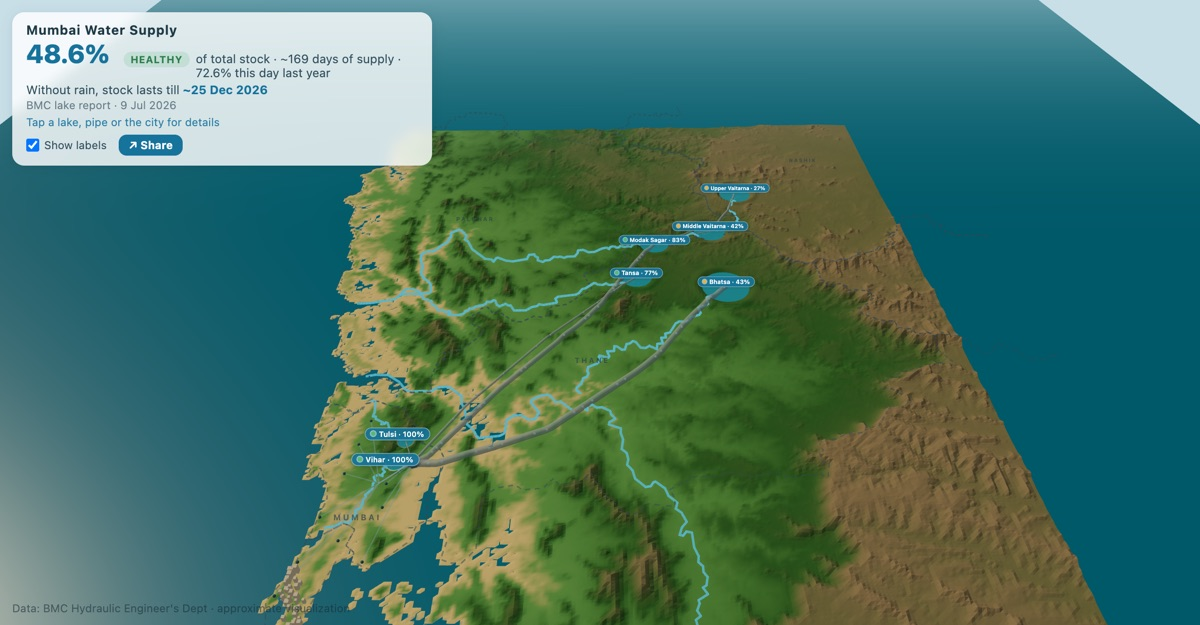
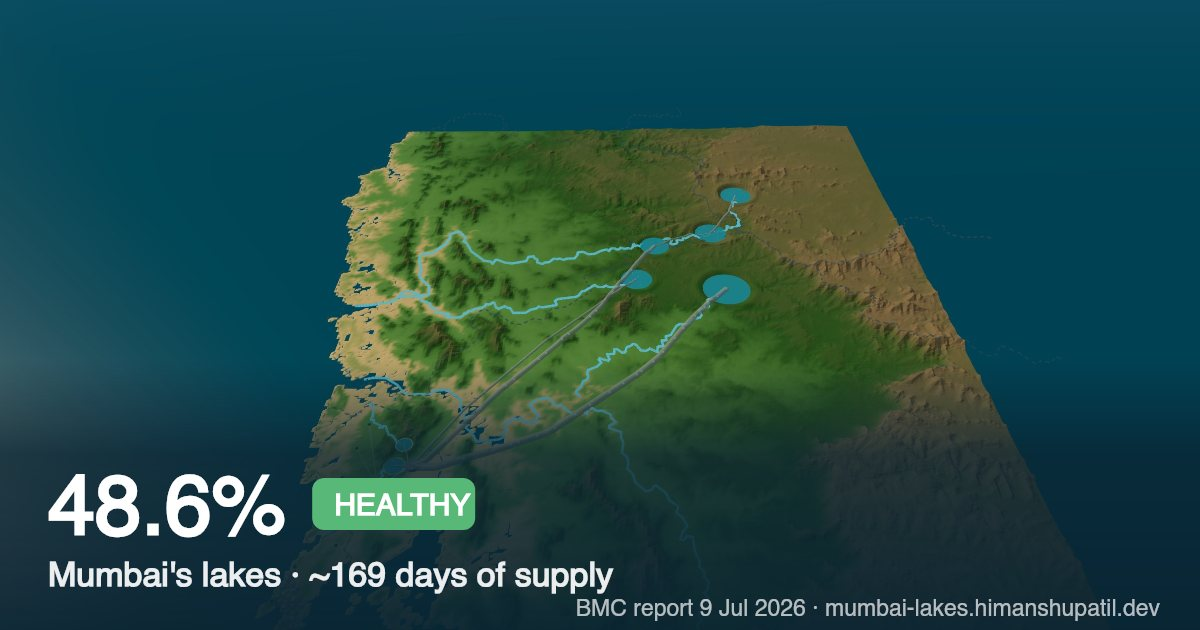
feat: intro flythrough (08) + self-updating daily OG card (10)
Flythrough: 7s camera spline down the Vaitarna cascade to Bhandup, lands on
the default view; skippable, once/session, ?intro=1|0. Lake chips visible,
other UI fades. OG: render-og.mjs redraws og.jpg with latest % after every
ingest.

diff --git a/src/scene/CameraRig.tsx b/src/scene/CameraRig.tsx
@@ -1,6 +1,8 @@
-import { useRef, type ComponentRef } from 'react'
+import { useEffect, useMemo, useRef, useState, type ComponentRef } from 'react'
 import { MapControls } from '@react-three/drei'
 import { useFrame } from '@react-three/fiber'
+import * as THREE from 'three'
+import { flags } from './capture'
 
 // ref type derived from drei so we don't import three-stdlib directly
 // (a transitive dep that pnpm's strict node_modules doesn't expose)
@@ -11,10 +13,99 @@ type MapControlsImpl = ComponentRef<typeof MapControls>
 const PAN_LIMIT_X = 140
 const PAN_LIMIT_Z = 200
 
+const PORTRAIT = typeof window !== 'undefined' && window.innerHeight > window.innerWidth
+const DEFAULT_POS = PORTRAIT ? [0, 260, 300] : [0, 190, 220]
+
+// Intro flythrough: over Upper Vaitarna, down the Vaitarna cascade, along the
+// mains corridor to Bhandup, pull out to the default map view.
+const INTRO_S = 7
+const easeInOut = (p: number) => (p < 0.5 ? 4 * p * p * p : 1 - Math.pow(-2 * p + 2, 3) / 2)
+
+function introSkipped(): boolean {
+  const q = new URLSearchParams(location.search)
+  if (q.get('intro') === '1') return false
+  if (q.get('intro') === '0') return true
+  if (q.has('date')) return true // deep link straight to a day, no cinema
+  if (sessionStorage.getItem('introPlayed')) return true
+  if (window.matchMedia('(prefers-reduced-motion: reduce)').matches) return true
+  return false
+}
+
 export function CameraRig() {
   const controls = useRef<MapControlsImpl>(null)
+  const [introDone, setIntroDone] = useState(introSkipped)
+  const progress = useRef(0)
 
-  useFrame(() => {
+  const { camPath, lookPath } = useMemo(() => {
+    const v = (x: number, y: number, z: number) => new THREE.Vector3(x, y, z)
+    const camPath = new THREE.CatmullRomCurve3(
+      [
+        v(96, 64, -152),
+        v(72, 26, -112),
+        v(52, 19, -78),
+        v(30, 20, -48),
+        v(-2, 24, 16),
+        v(-32, 28, 80),
+        v(DEFAULT_POS[0], DEFAULT_POS[1], DEFAULT_POS[2]),
+      ],
+      false,
+      'catmullrom',
+      0.35,
+    )
+    const lookPath = new THREE.CatmullRomCurve3(
+      [
+        v(71, 2, -101), // Upper Vaitarna
+        v(58, 2, -70), // Middle Vaitarna
+        v(37, 2, -56), // Modak Sagar
+        v(10, 3, -18),
+        v(-34, 1, 97), // Bhandup
+        v(-46, 1, 116), // city
+        v(0, 0, 0),
+      ],
+      false,
+      'catmullrom',
+      0.35,
+    )
+    return { camPath, lookPath }
+  }, [])
+
+  // any interaction skips the intro
+  useEffect(() => {
+    if (introDone) return
+    const skip = () => setIntroDone(true)
+    window.addEventListener('pointerdown', skip, { once: true })
+    window.addEventListener('wheel', skip, { once: true })
+    window.addEventListener('keydown', skip, { once: true })
+    return () => {
+      window.removeEventListener('pointerdown', skip)
+      window.removeEventListener('wheel', skip)
+      window.removeEventListener('keydown', skip)
+    }
+  }, [introDone])
+
+  useEffect(() => {
+    if (introDone) sessionStorage.setItem('introPlayed', '1')
+  }, [introDone])
+
+  // clean cinematic: hide chips/header/scrubber while the intro plays
+  useEffect(() => {
+    if (introDone) return
+    const app = document.querySelector('.app')
+    app?.classList.add('intro-active')
+    return () => app?.classList.remove('intro-active')
+  }, [introDone])
+
+  useFrame(({ camera }, delta) => {
+    if (!introDone) {
+      if (!flags.ready) return // hold until the terrain is in
+      progress.current = Math.min(1, progress.current + delta / INTRO_S)
+      const p = easeInOut(progress.current)
+      camera.position.copy(camPath.getPoint(p))
+      camera.lookAt(lookPath.getPoint(p))
+      if (progress.current >= 1) setIntroDone(true)
+      return
+    }
+
     const c = controls.current
     if (!c) return
     const t = c.target
@@ -32,10 +123,12 @@ export function CameraRig() {
     }
   })
 
+  if (!introDone) return null // controls mount only after the intro lands
+
   return (
     <MapControls
-      ref={controls}
       makeDefault
+      ref={controls}
       enableDamping
       dampingFactor={0.08}
       screenSpacePanning={false}

diff --git a/src/styles.css b/src/styles.css
@@ -490,6 +490,23 @@ body {
   display: none;
 }
 
+/* intro flythrough: pure scene, UI fades back in on landing */
+.header,
+.scrubber,
+.watermark {
+  transition: opacity 0.6s;
+}
+
+.intro-active .header,
+.intro-active .scrubber,
+.intro-active .watermark,
+.intro-active .zone-label,
+.intro-active .facility-label,
+.intro-active .district-label {
+  opacity: 0 !important;
+  pointer-events: none;
+}
+
 /* stock status: danger / warning / safe */
 .status-dot {
   display: inline-block;

diff --git a/src/scene/Scene.tsx b/src/scene/Scene.tsx
@@ -11,12 +11,15 @@ import { Rain } from './Rain'
 import { CameraRig } from './CameraRig'
 import { setSelected } from '../state/selection'
 import { useHeightfield } from './heightfield'
-import { CaptureBridge } from './capture'
+import { CaptureBridge, flags } from './capture'
 
 /** mounts only once the DEM has loaded (inside Suspense) → signals the app */
 function Ready({ onReady }: { onReady: () => void }) {
   useHeightfield()
-  useEffect(onReady, [onReady])
+  useEffect(() => {
+    flags.ready = true
+    onReady()
+  }, [onReady])
   return null
 }
 

diff --git a/src/scene/capture.ts b/src/scene/capture.ts
@@ -12,6 +12,9 @@ export const capture: {
   camera: THREE.Camera | null
 } = { gl: null, scene: null, camera: null }
 
+/** set once the DEM has loaded — gates the intro flythrough */
+export const flags = { ready: false }
+
 export function CaptureBridge() {
   const { gl, scene, camera } = useThree()
   useEffect(() => {

diff --git a/.issues/README.md b/.issues/README.md
@@ -11,9 +11,9 @@ Workflow: fresh session per issue, pass `PRD.md` + the issue file.
 | 05 | Pipeline: OCR Action + Pages deploy | ✅ Done — LIVE at mumbai-lakes.himanshupatil.dev |
 | 06 | History: backfill + sparklines | ✅ Done — 12 days backfilled, no gaps |
 | 07 | Polish | 🟡 Partial — real-phone QA + perf pass remain |
-| 08 | Intro flythrough | ⬜ |
+| 08 | Intro flythrough | ✅ Done — ?intro=1 to force |
 | 09 | Timeline scrubber | ✅ Done — play the season, ?date= links |
-| 10 | Daily OG card refresh | ⬜ |
+| 10 | Daily OG card refresh | ✅ Done — auto with each ingest |
 
 Shipped beyond the original plan: real-DEM terrain + OSM rivers/reservoirs +
 geoBoundaries districts, share button, "lasts till" date, fill-up intro

diff --git a/.issues/08-intro-flythrough.md b/.issues/08-intro-flythrough.md
@@ -1,6 +1,6 @@
 # 08 — Intro flythrough
 
-> **Status: ⬜ Not started.** Approved in the social-features discussion (2026-07-09).
+> **Status: ✅ Done (2026-07-10). 7s spline: over Upper Vaitarna → cascade → mains corridor → Bhandup → pull-out landing on default view. Skips on interaction/reduced-motion/?date links; once per session; ?intro=1 forces (for recordings), ?intro=0 disables. Lake chips stay visible; other UI fades out.** Approved in the social-features discussion (2026-07-09).
 
 ## Goal
 

diff --git a/.issues/10-daily-og-card.md b/.issues/10-daily-og-card.md
@@ -1,6 +1,6 @@
 # 10 — Daily OG card refresh
 
-> **Status: ⬜ Not started.** Static og.jpg ships today; this makes it self-updating.
+> **Status: ✅ Done (2026-07-10). scripts/render-og.mjs (@napi-rs/canvas) draws % + status chip + days over public/og-base.jpg (UI-free scene shot); wired into ingest.yml, og.jpg committed with each report. Stable URL — scraper cache lag accepted.** Static og.jpg ships today; this makes it self-updating.
 
 ## Goal
 